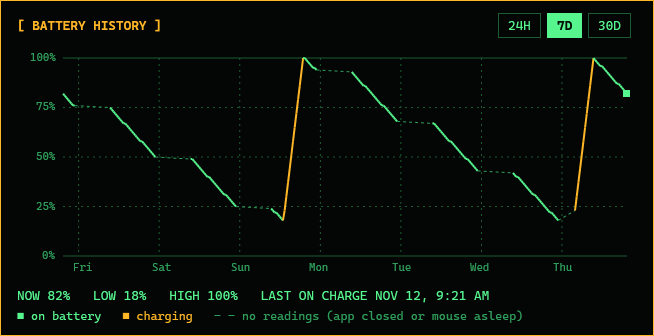
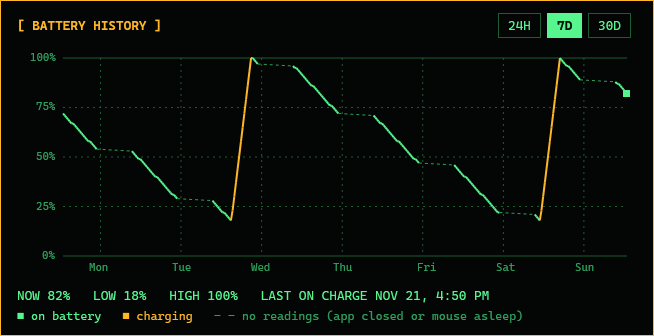
Release 0.4.0
Bump the version, date the changelog, and retake the README
screenshots (in demo mode), adding one of the options panel.

diff --git a/README.md b/README.md
@@ -7,17 +7,23 @@ A small, open-source settings app for gaming mice built on the Compx chipset (US
 ![Rescue Whale](preview.png)
 
 <details>
-<summary><b>More screenshots:</b> tall layout, themes, battery history</summary>
+<summary><b>More screenshots:</b> single-column layout, themes, options, battery history</summary>
 
-**Tall layout.** Make the window narrow and tall and the boxes rearrange into a single column.
+These screenshots use the app's demo mode, so they show sample settings rather than a real mouse.
 
-<img src="screenshots/tall.png" alt="Rescue Whale in its tall single-column layout" width="420">
+**Single-column layout.** Make the window narrower and the boxes rearrange into one column.
 
-**Themes.** Six of the eight: OLED green, OLED amber, OLED ice, OLED mono, OLED red, and paper.
+<img src="screenshots/tall.png" alt="Rescue Whale in its single-column layout" width="420">
+
+**Themes.** Six of the nine: OLED green, OLED amber, OLED ice, OLED mono, OLED red, and pink & purple.
 
 ![Six Rescue Whale themes](screenshots/themes.png)
 
-**Battery history.** Click the battery gauge for a graph of how the battery drained and recharged. This one shows the app's demo data.
+**Options.** The `[ OPTIONS ]` button in the top strip opens the theme choice, tray icons, battery alert, close behavior, and starting with Windows.
+
+![Options panel](screenshots/options.png)
+
+**Battery history.** Click the battery gauge for a graph of how the battery drained and recharged.
 
 ![Battery history graph](screenshots/battery-history.png)
 

diff --git a/CHANGELOG.md b/CHANGELOG.md
@@ -2,7 +2,7 @@
 
 All notable changes to Rescue Whale are listed here, newest first.
 
-## Unreleased
+## 0.4.0 - November 22, 2026
 
 ### Added
 
